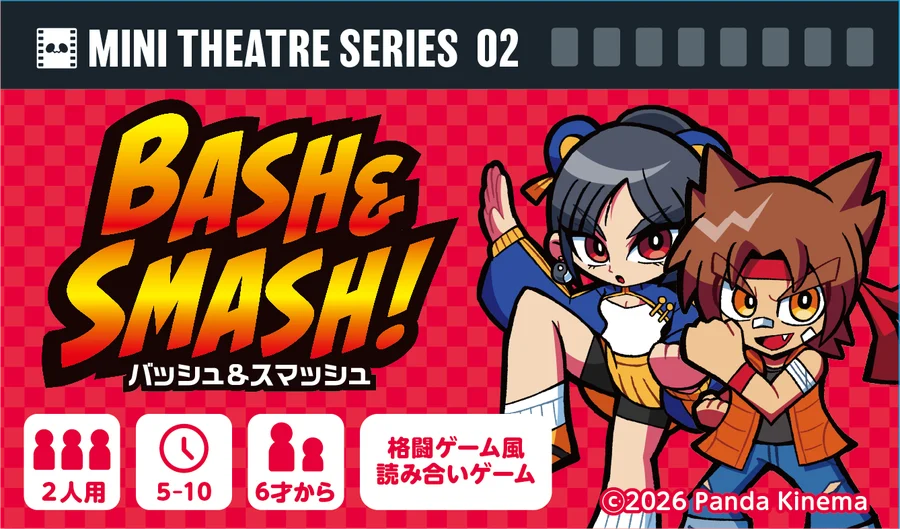
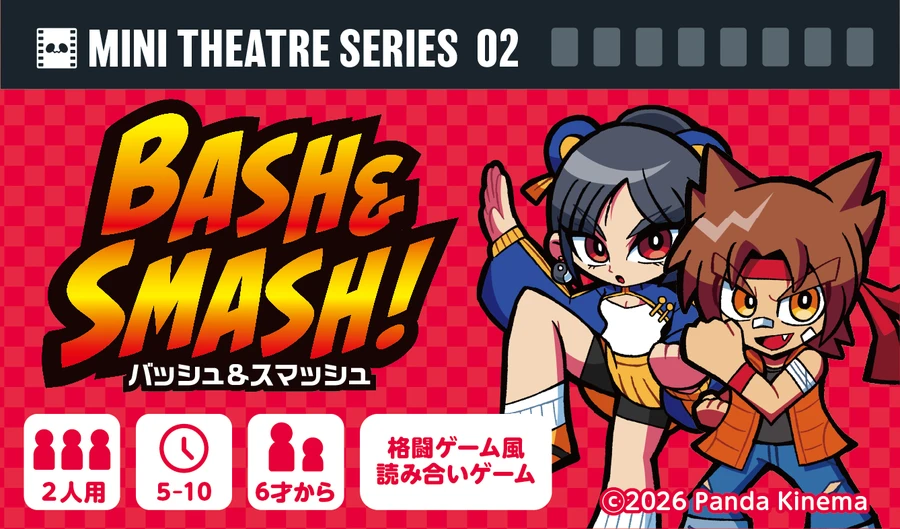
BASH: パッケージ画像を差し替え
Claude-Session: https://claude.ai/code/session_01KGkDFCMk81Yp3xPHsDn5z8

Changed region(s): [[0.0, 0.0, 1.0, 1.0]]

diff --git a/new/index.html b/new/index.html
@@ -459,7 +459,7 @@
         <li class="card" style="--c1:#ffffff;--c2:#0073bd"><input class="sr" type="radio" name="board" id="c-ikatako"><label class="c-face" for="c-ikatako"><img src="img/card/ikatako_bdg.png?v=bfbb205c" alt="イカタコ" loading="lazy"></label><div class="c-open"><img class="o-pkg" src="img/package/pkg_ikatako.webp?v=09232251" alt="" loading="lazy"><div class="o-txt"><span class="o-logo" role="img" aria-label="イカタコ" style="--lg:url(img/logo/logo_ikatako.png?v=02d95a4c);aspect-ratio:1270/340;--lc:#ffffff"></span><span class="pill" style="--pc:#ffffff;--pt:#0073bd">1〜6<span lang="ja">人</span><span lang="en"> players</span> / 5〜15<span lang="ja">分</span><span lang="en"> min</span> / 8<span lang="ja">歳から</span><span lang="en">+</span></span><p class="o-genre"><span lang="ja">ジャンル:</span><span lang="en">Genre: </span><span lang="ja">リアクション・反射神経</span><span lang="en">Reaction / Reflexes</span></p><div class="o-btns"><a class="wb" href="games/ikatako/"><b class="ar" aria-hidden="true">▶</b><span lang="ja">見る</span><span lang="en">View</span></a><a class="wb" href="https://pandakinema.booth.pm/" target="_blank" rel="noopener"><b class="ar" aria-hidden="true">▶</b><span lang="ja">BOOTHで購入</span><span lang="en">Buy on BOOTH</span></a></div></div><label class="o-x" for="board-x" aria-label="とじる"></label></div></li>
         <li class="card" style="--c1:#f19ebc;--c2:#39278b"><input class="sr" type="radio" name="board" id="c-moko"><label class="c-face" for="c-moko"><img src="img/card/mocochaka_bdg.png?v=5a20c323" alt="モコチャカ" loading="lazy"></label><div class="c-open"><img class="o-pkg" src="img/package/pkg_moko.webp?v=bd55ef37" alt="" loading="lazy"><div class="o-txt"><span class="o-logo" role="img" aria-label="モコチャカ" style="--lg:url(img/logo/logo_moko.png?v=62ab4b98);aspect-ratio:1282/240;--lc:#f19ebc"></span><span class="pill" style="--pc:#f19ebc;--pt:#39278b">2〜4<span lang="ja">人</span><span lang="en"> players</span> / 10〜15<span lang="ja">分</span><span lang="en"> min</span> / 6<span lang="ja">歳から</span><span lang="en">+</span></span><p class="o-genre"><span lang="ja">ジャンル:</span><span lang="en">Genre: </span><span lang="ja">パターン認識・アクション</span><span lang="en">Pattern recognition / Action</span></p><div class="o-btns"><a class="wb" href="games/moko/"><b class="ar" aria-hidden="true">▶</b><span lang="ja">見る</span><span lang="en">View</span></a><a class="wb" href="https://pandakinema.booth.pm/" target="_blank" rel="noopener"><b class="ar" aria-hidden="true">▶</b><span lang="ja">BOOTHで購入</span><span lang="en">Buy on BOOTH</span></a></div></div><label class="o-x" for="board-x" aria-label="とじる"></label></div></li>
         <li class="card" style="--c1:#ffffff;--c2:#48b0e5"><input class="sr" type="radio" name="board" id="c-koikoi"><label class="c-face" for="c-koikoi"><img src="img/card/koikoi_bdg.png?v=a1377913" alt="こいこいのぼり 真打" loading="lazy"></label><div class="c-open"><img class="o-pkg wide" src="img/package/mini_koikoi.webp?v=f2df86ff" alt="" loading="lazy"><div class="o-txt"><img class="o-logo" src="img/logo/koikoilogo.png?v=bc68f6cc" alt="こいこいのぼり 真打" width="1009" height="522"><span class="pill" style="--pc:#ffffff;--pt:#48b0e5">2<span lang="ja">人</span><span lang="en"> players</span> / 5〜10<span lang="ja">分</span><span lang="en"> min</span> / 6<span lang="ja">歳から</span><span lang="en">+</span></span><p class="o-genre"><span lang="ja">ジャンル:</span><span lang="en">Genre: </span><span lang="ja">花札風セットコレクション</span><span lang="en">Hanafuda-style set collection</span></p><div class="o-btns"><a class="wb" href="games/koikoi/"><b class="ar" aria-hidden="true">▶</b><span lang="ja">見る</span><span lang="en">View</span></a><a class="wb" href="https://pandakinema.booth.pm/" target="_blank" rel="noopener"><b class="ar" aria-hidden="true">▶</b><span lang="ja">BOOTHで購入</span><span lang="en">Buy on BOOTH</span></a></div></div><label class="o-x" for="board-x" aria-label="とじる"></label></div></li>
-        <li class="card" style="--c1:#ffffff;--c2:#e60039"><input class="sr" type="radio" name="board" id="c-bash"><label class="c-face" for="c-bash"><img src="img/card/bash_bdg.png?v=492ce9bd" alt="BASH&amp;SMASH" loading="lazy"></label><div class="c-open"><img class="o-pkg wide" src="img/package/mini_bash.webp?v=2f9d2e36" alt="" loading="lazy"><div class="o-txt"><img class="o-logo" src="img/logo/bashlogo_4C.png?v=05a46cc7" alt="BASH&amp;SMASH" width="620" height="490"><span class="pill" style="--pc:#ffffff;--pt:#e60039">2<span lang="ja">人</span><span lang="en"> players</span> / 5〜10<span lang="ja">分</span><span lang="en"> min</span> / 6<span lang="ja">歳から</span><span lang="en">+</span></span><p class="o-genre"><span lang="ja">ジャンル:</span><span lang="en">Genre: </span><span lang="ja">対戦格闘風読み合いゲーム</span><span lang="en">Fighting-game-style mind game</span></p><div class="o-btns"><a class="wb" href="games/bash/"><b class="ar" aria-hidden="true">▶</b><span lang="ja">見る</span><span lang="en">View</span></a><a class="wb" href="https://pandakinema.booth.pm/" target="_blank" rel="noopener"><b class="ar" aria-hidden="true">▶</b><span lang="ja">BOOTHで購入</span><span lang="en">Buy on BOOTH</span></a></div></div><label class="o-x" for="board-x" aria-label="とじる"></label></div></li>
+        <li class="card" style="--c1:#ffffff;--c2:#e60039"><input class="sr" type="radio" name="board" id="c-bash"><label class="c-face" for="c-bash"><img src="img/card/bash_bdg.png?v=492ce9bd" alt="BASH&amp;SMASH" loading="lazy"></label><div class="c-open"><img class="o-pkg wide" src="img/package/mini_bash.webp?v=d66176cc" alt="" loading="lazy"><div class="o-txt"><img class="o-logo" src="img/logo/bashlogo_4C.png?v=05a46cc7" alt="BASH&amp;SMASH" width="620" height="490"><span class="pill" style="--pc:#ffffff;--pt:#e60039">2<span lang="ja">人</span><span lang="en"> players</span> / 5〜10<span lang="ja">分</span><span lang="en"> min</span> / 6<span lang="ja">歳から</span><span lang="en">+</span></span><p class="o-genre"><span lang="ja">ジャンル:</span><span lang="en">Genre: </span><span lang="ja">対戦格闘風読み合いゲーム</span><span lang="en">Fighting-game-style mind game</span></p><div class="o-btns"><a class="wb" href="games/bash/"><b class="ar" aria-hidden="true">▶</b><span lang="ja">見る</span><span lang="en">View</span></a><a class="wb" href="https://pandakinema.booth.pm/" target="_blank" rel="noopener"><b class="ar" aria-hidden="true">▶</b><span lang="ja">BOOTHで購入</span><span lang="en">Buy on BOOTH</span></a></div></div><label class="o-x" for="board-x" aria-label="とじる"></label></div></li>
     </ul>
     <div class="pager js-only" data-for="boardrow"><button class="tri prev" type="button" aria-label="前へ"></button><div class="pd"></div><button class="tri next" type="button" aria-label="次へ"></button></div>
   </section>

diff --git a/new/games/bash/index.html b/new/games/bash/index.html
@@ -785,7 +785,7 @@
       <div class="gal reveal">
         <div class="gtrack" tabindex="0" aria-label="ギャラリー(横に切り替え)"><div class="grail">
           <figure class="gslide"><button class="gitem" type="button" aria-label="遊び方説明書(表)を大きく見る"><img src="../../img/gallery/sg_manual1.webp?v=c551698d" alt="遊び方説明書(表)" loading="lazy"></button><figcaption><span lang="ja">遊び方説明書(表)</span><span lang="en">Rulebook (front)</span></figcaption></figure>
-          <figure class="gslide"><button class="gitem" type="button" aria-label="パッケージを大きく見る"><img src="../../img/package/mini_bash.webp?v=2f9d2e36" alt="パッケージ" loading="lazy"></button><figcaption><span lang="ja">パッケージ</span><span lang="en">Box</span></figcaption></figure>
+          <figure class="gslide"><button class="gitem" type="button" aria-label="パッケージを大きく見る"><img src="../../img/package/mini_bash.webp?v=d66176cc" alt="パッケージ" loading="lazy"></button><figcaption><span lang="ja">パッケージ</span><span lang="en">Box</span></figcaption></figure>
           <figure class="gslide"><button class="gitem" type="button" aria-label="遊び方説明書(裏)を大きく見る"><img src="../../img/gallery/sg_manual2.webp?v=917641ac" alt="遊び方説明書(裏)" loading="lazy"></button><figcaption><span lang="ja">遊び方説明書(裏)</span><span lang="en">Rulebook (back)</span></figcaption></figure>
           <figure class="gslide"><button class="gitem" type="button" aria-label="バッシュ イラストを大きく見る"><img src="../../img/gallery/BASH_img.jpg?v=ffb3c9cb" alt="バッシュ イラスト" loading="lazy"></button><figcaption><span lang="ja">バッシュ イラスト</span><span lang="en">バッシュ イラスト</span></figcaption></figure>
           <figure class="gslide"><button class="gitem" type="button" aria-label="リンリン イラストを大きく見る"><img src="../../img/gallery/LINLIN_img.jpg?v=b56e27fd" alt="リンリン イラスト" loading="lazy"></button><figcaption><span lang="ja">リンリン イラスト</span><span lang="en">リンリン イラスト</span></figcaption></figure>
@@ -800,7 +800,7 @@
     <div class="gband top" aria-hidden="true"></div><div class="gband bottom" aria-hidden="true"></div>
     <div class="wrap">
     <div class="panel buy-box reveal">
-      <img class="pkg" src="../../img/package/mini_bash.webp?v=2f9d2e36" alt="BASH&amp;SMASHのパッケージ" width="900" height="529" loading="lazy">
+      <img class="pkg" src="../../img/package/mini_bash.webp?v=d66176cc" alt="BASH&amp;SMASHのパッケージ" width="900" height="529" loading="lazy">
       <div>
         <img class="buy-logo" src="../../img/logo/bashlogo_4C.png?v=05a46cc7" alt="BASH&amp;SMASH! バッシュ&amp;スマッシュ" loading="lazy">
         <dl class="spec">
@@ -820,7 +820,7 @@
 
   <dialog class="lb" aria-label="写真"><img alt=""><button class="lb-x" type="button" aria-label="閉じる">×</button></dialog>
 
-  <a class="fab buy" href="https://pandakinema.booth.pm/" target="_blank" rel="noopener"><img src="../../img/package/mini_bash.webp?v=2f9d2e36" alt="" width="44" height="67"><span lang="ja">BOOTHで購入</span><span lang="en">Buy on BOOTH</span> <span aria-hidden="true">↗</span></a>
+  <a class="fab buy" href="https://pandakinema.booth.pm/" target="_blank" rel="noopener"><img src="../../img/package/mini_bash.webp?v=d66176cc" alt="" width="44" height="67"><span lang="ja">BOOTHで購入</span><span lang="en">Buy on BOOTH</span> <span aria-hidden="true">↗</span></a>
 </main>
 
 <!-- 5. クレジット -->
